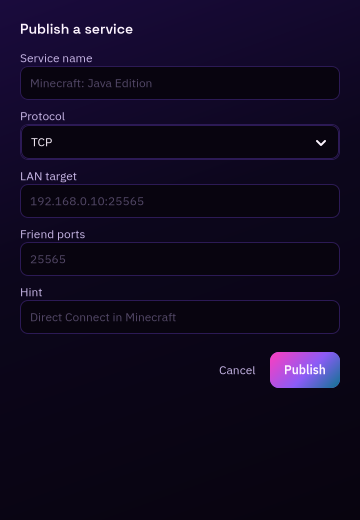
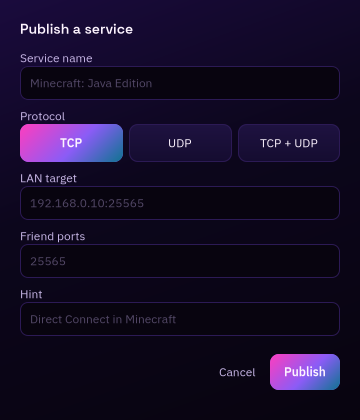
Replaced the protocol dropdown with a segmented selector
The Breeze theme kept repainting the dropdown text area on hover. The protocol is now a TCP / UDP / TCP + UDP segmented control using the app's own button styles. The Delete group button on the host screen is back to its previous secondary style; its confirmation dialog still uses the danger button.

diff --git a/internal/gtkui/dialogs.go b/internal/gtkui/dialogs.go
@@ -242,9 +242,32 @@ func (u *probeUI) showAddServiceDialog(g group.Group) {
 	content.Append(nameEntry)
 	content.Append(gapBox(8))
 	content.Append(textLabel("Protocol", "form-label"))
-	protocol := gtk.NewDropDownFromStrings([]string{"TCP", "UDP", "TCP + UDP"})
-	protocol.AddCSSClass("field")
-	content.Append(protocol)
+	protocolRow := gtk.NewBox(gtk.OrientationHorizontal, 6)
+	protocolRow.SetHomogeneous(true)
+	protocolButtons := make([]*gtk.Button, 0, 3)
+	selectedProtocol := 0
+	setProtocol := func(selected int) {
+		selectedProtocol = selected
+		for i, button := range protocolButtons {
+			button.RemoveCSSClass("primary")
+			button.RemoveCSSClass("secondary")
+			if i == selected {
+				button.AddCSSClass("primary")
+			} else {
+				button.AddCSSClass("secondary")
+			}
+		}
+	}
+	for i, label := range []string{"TCP", "UDP", "TCP + UDP"} {
+		index := i
+		button := gtk.NewButtonWithLabel(label)
+		button.SetHExpand(true)
+		button.ConnectClicked(func() { setProtocol(index) })
+		protocolButtons = append(protocolButtons, button)
+		protocolRow.Append(button)
+	}
+	setProtocol(0)
+	content.Append(protocolRow)
 	content.Append(gapBox(8))
 	content.Append(textLabel("LAN target", "form-label"))
 	targetEntry := entry("192.168.0.10:25565")
@@ -279,7 +302,7 @@ func (u *probeUI) showAddServiceDialog(g group.Group) {
 		s := group.Service{
 			ID:     group.NewID(),
 			Name:   strings.TrimSpace(nameEntry.Text()),
-			Proto:  protoValue(int(protocol.Selected())),
+			Proto:  protoValue(selectedProtocol),
 			Target: strings.TrimSpace(targetEntry.Text()),
 			Ports:  ports,
 			Hint:   strings.TrimSpace(hintEntry.Text()),

diff --git a/internal/gtkui/group.go b/internal/gtkui/group.go
@@ -42,7 +42,7 @@ func (u *probeUI) buildGroupContent(g group.Group) *gtk.Box {
 		page.Append(gtk.NewSeparator(gtk.OrientationHorizontal))
 		page.Append(gapBox(10))
 		leave := gtk.NewButtonWithLabel("Delete group")
-		leave.AddCSSClass("danger")
+		leave.AddCSSClass("secondary")
 		leave.ConnectClicked(func() {
 			u.confirmDeleteGroup(g)
 		})
